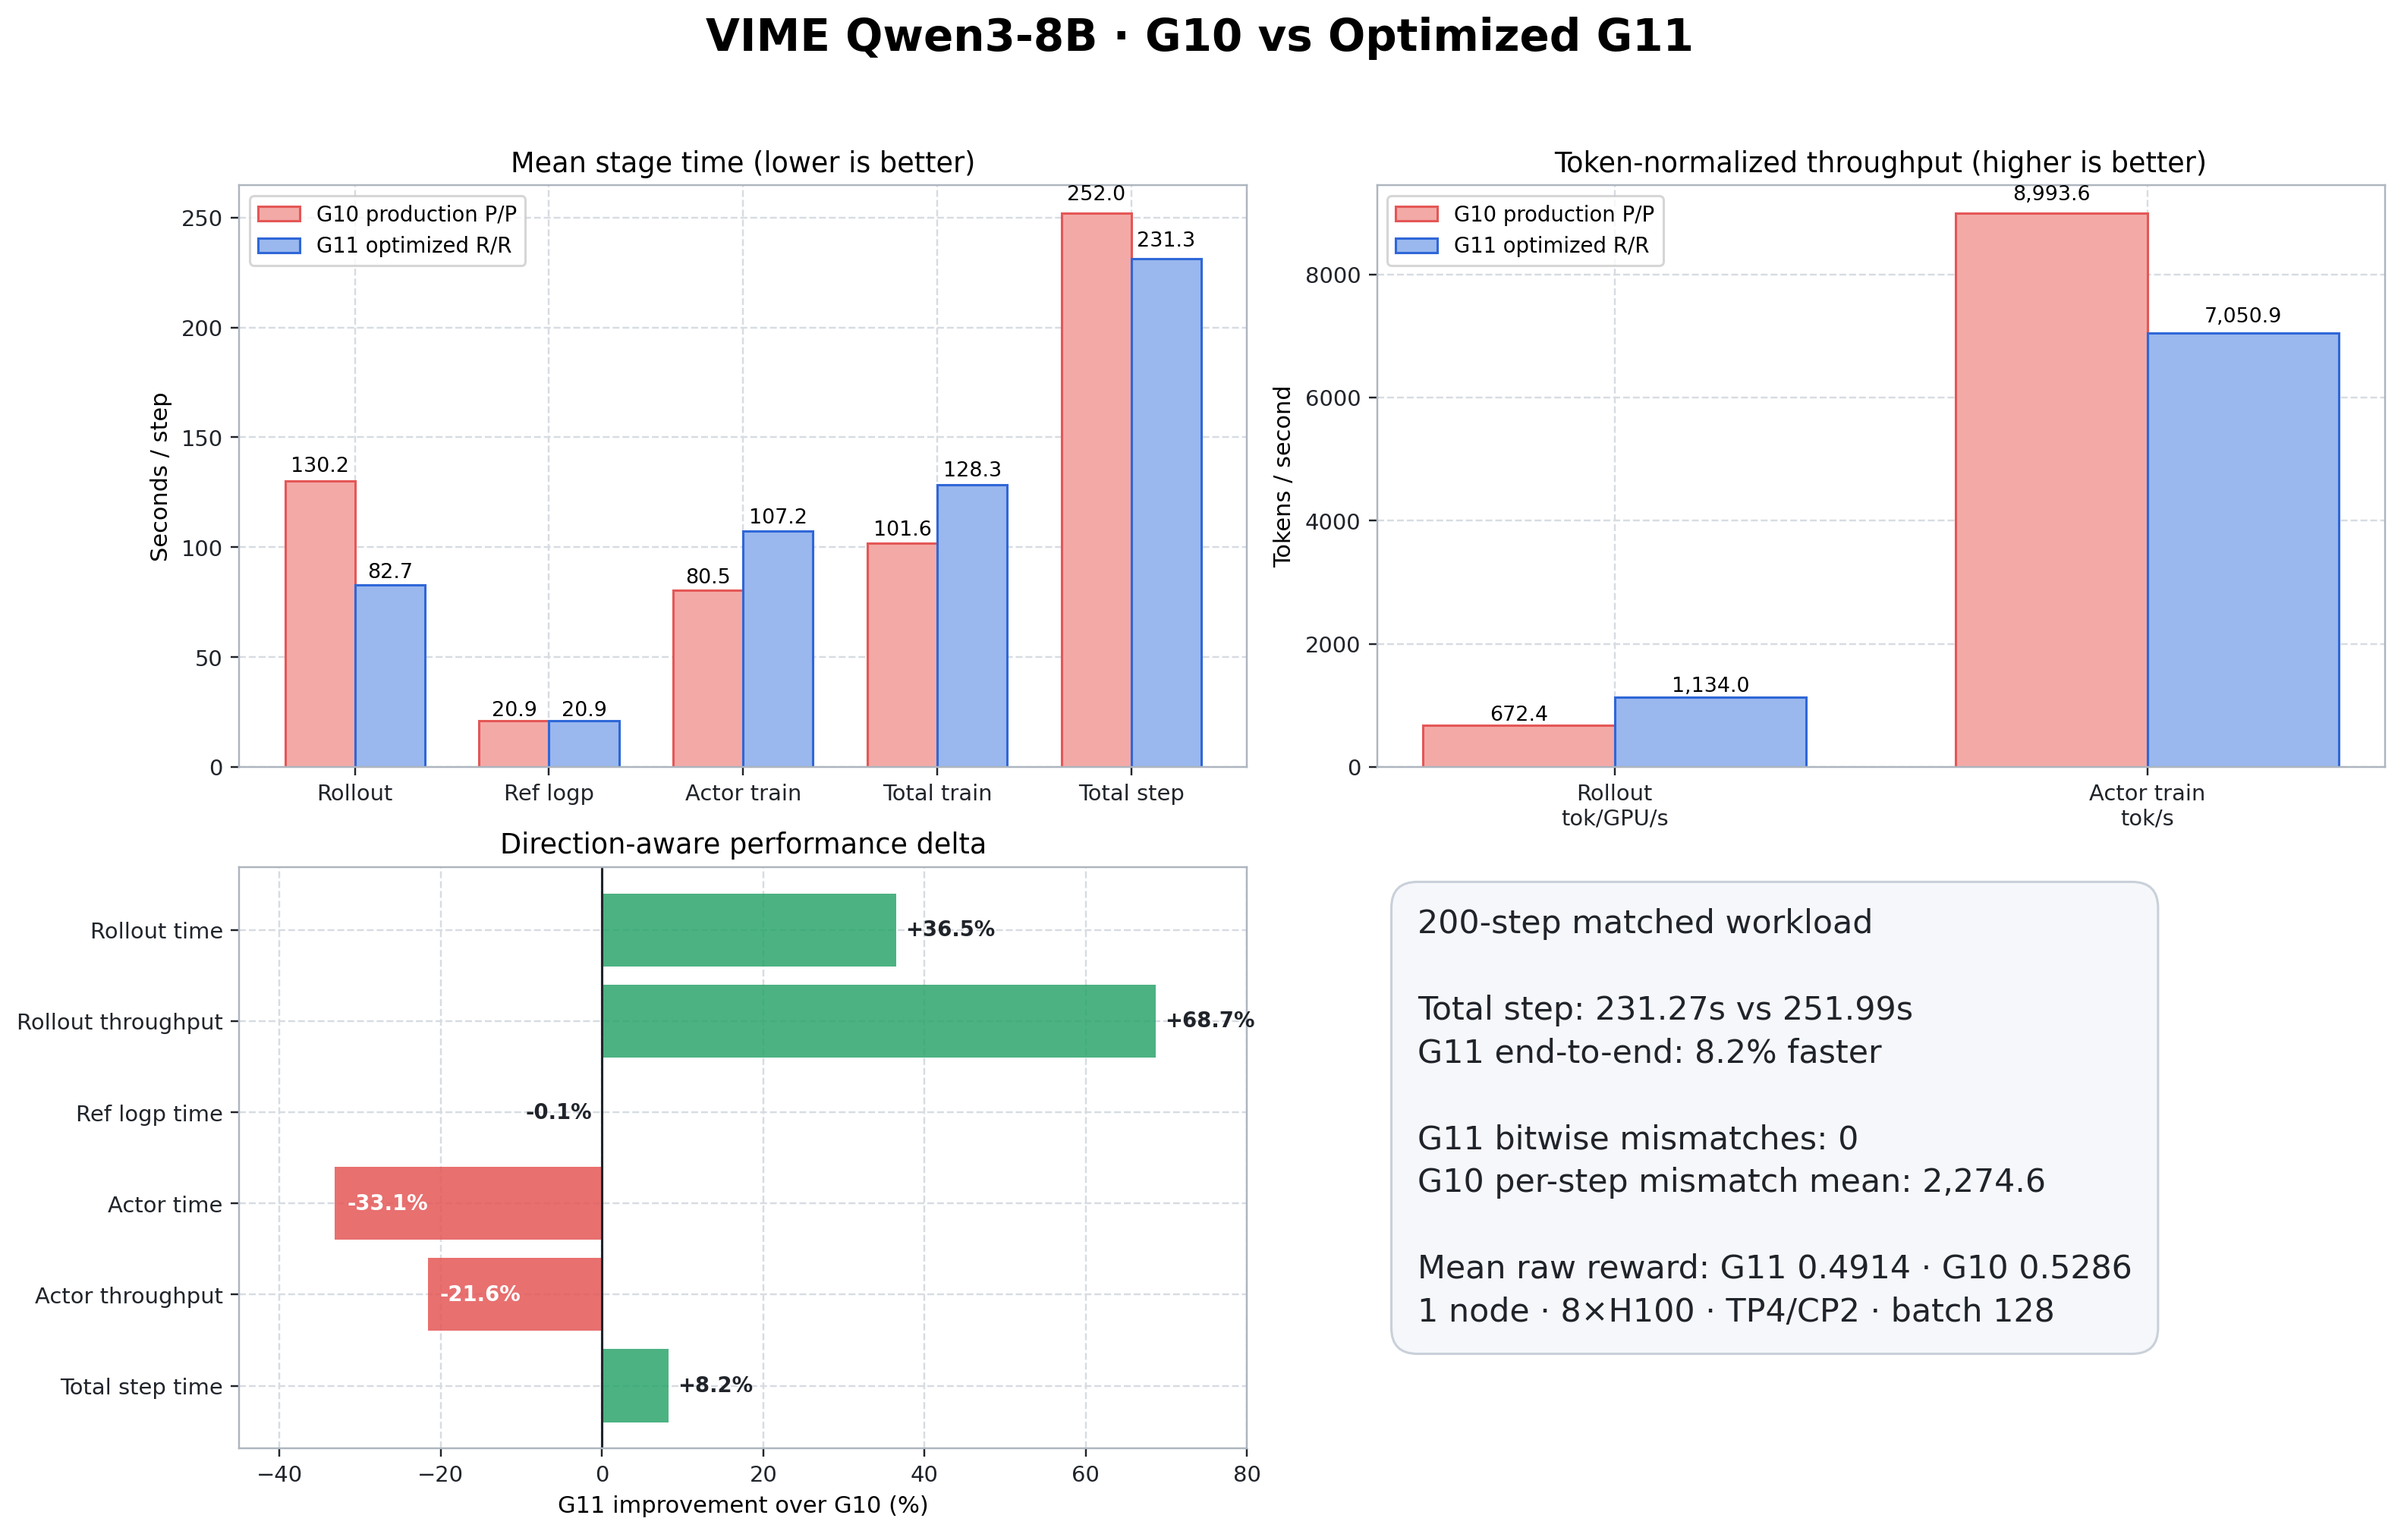
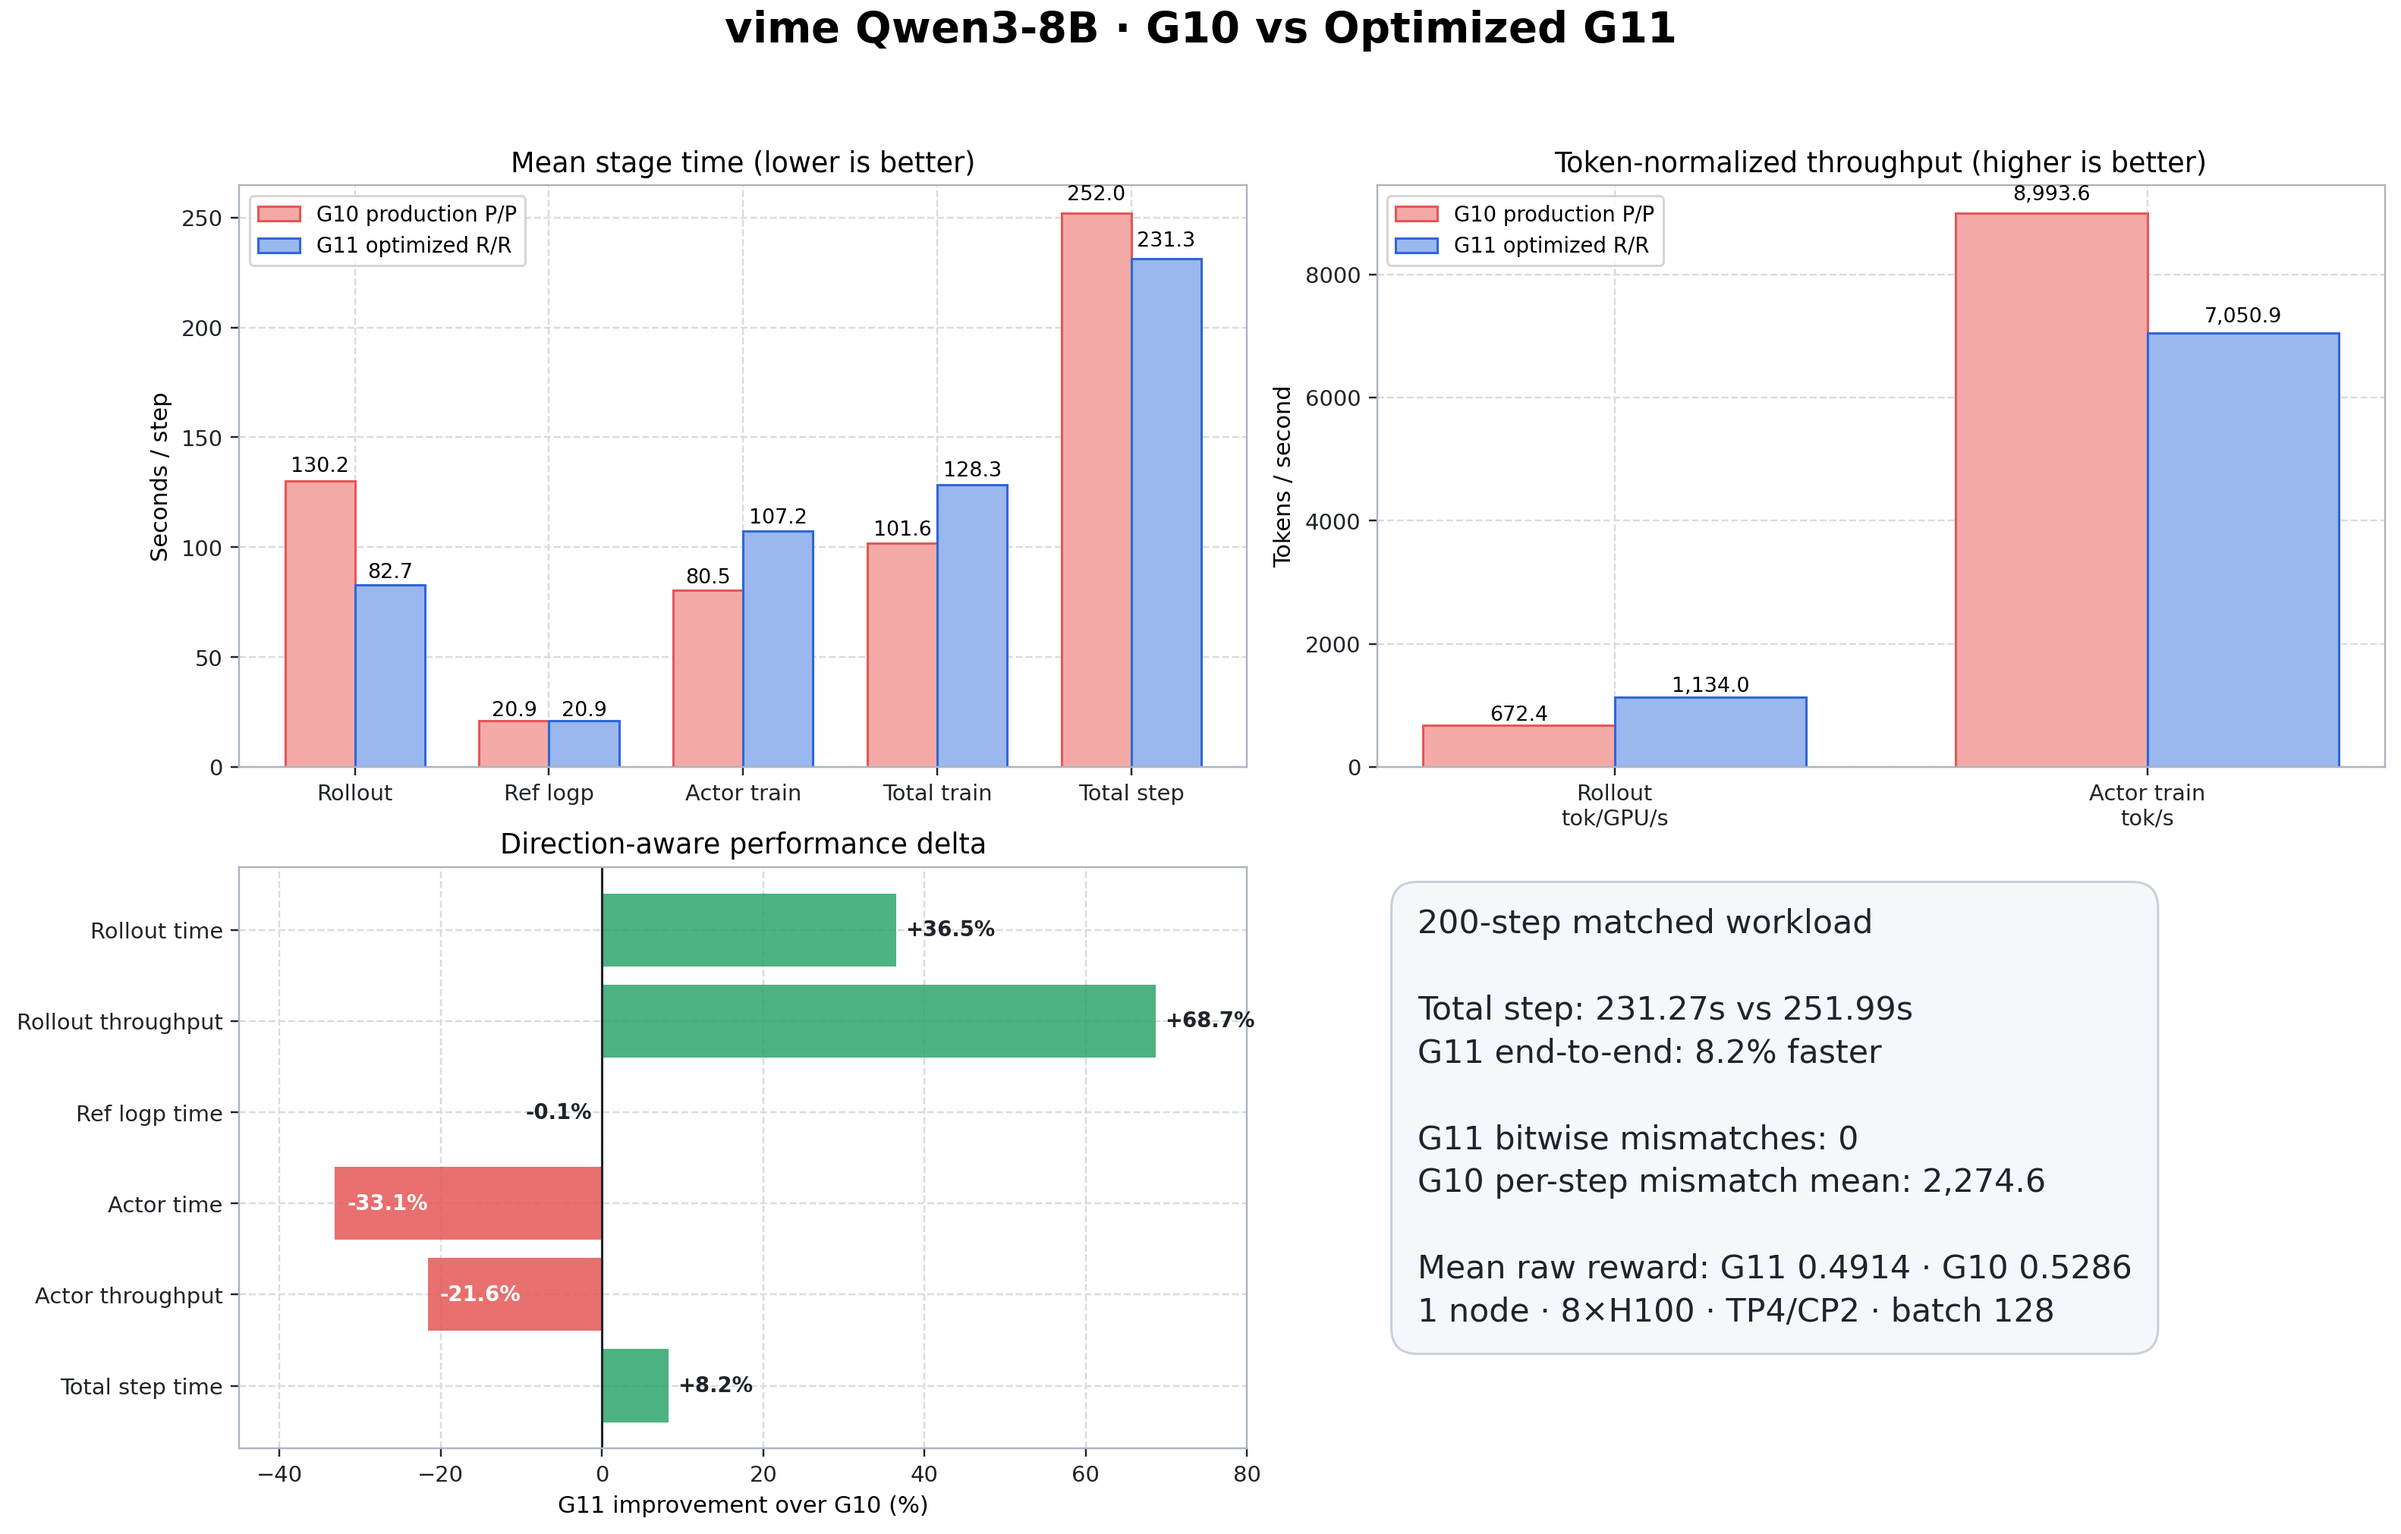
docs(readme): use official vime casing

Changed region(s): [[0.2788, 0.0, 0.7124, 0.0312]]

diff --git a/README.md b/README.md
@@ -34,7 +34,7 @@ deterministic operators for consistent numerical computation across rollout and 
 engines, together with hardware-specific kernels for faster execution and lower memory
 use in GRPO, PPO, and related workloads.
 
-Today, the end-to-end path covers **Qwen3-8B Dense with VIME, vLLM, and Megatron-LM**.
+Today, the end-to-end path covers **Qwen3-8B Dense with vime, vLLM, and Megatron-LM**.
 Work on DeepSeek-V4 Flash MoE, Miles, and AReaL is ongoing.
 
 ## Why RL-Kernel?
@@ -50,7 +50,7 @@ differences enter the policy ratios and KL terms used by RL algorithms.
   and collectives cover the numerical boundaries in RL post-training.
 - **Performance:** fused computation and hardware-specific kernels reduce rollout time,
   memory use, and synchronization costs.
-- **VIME integration:** VIME orchestrates vLLM rollout and Megatron-LM training, with
+- **vime integration:** vime orchestrates vLLM rollout and Megatron-LM training, with
   RL-Kernel supplying the operators used by both engines.
 - **Hardware:** NVIDIA SM90 and AMD gfx942 are supported. Ascend dav_c220 has partial
   operator coverage. Support for other hardware is in progress.
@@ -68,12 +68,12 @@ operators, and hardware backends fit together.
   <img src="docs/assets/RL-Kernel underlying operator library technical architecture.png" alt="RL-Kernel global architecture" width="800">
 </p>
 
-The smaller diagram shows the current VIME integration and the planned Miles and AReaL
+The smaller diagram shows the current vime integration and the planned Miles and AReaL
 integrations.
 
 ```mermaid
 flowchart TB
-    VIME["VIME · integrated"] --> ORCH["RL orchestration integration"]
+    vime["vime · integrated"] --> ORCH["RL orchestration integration"]
     MILES["Miles · roadmap"] -.-> ORCH
     AREAL["AReaL · roadmap"] -.-> ORCH
     ORCH --> VLLM["vLLM · rollout"]
@@ -86,32 +86,32 @@ flowchart TB
     RLK -.-> MUSA["Moore Threads · MUSA · in progress"]
 ```
 
-The benchmark below uses **VIME, vLLM, Megatron-LM, and CUDA**. See
+The benchmark below uses **vime, vLLM, Megatron-LM, and CUDA**. See
 [runtime dispatch](./docs/design/runtime-dispatch.md) for operator selection.
 
 ## Current Scope and Roadmap
 
-The current end-to-end path uses Qwen3-8B Dense with VIME.
+The current end-to-end path uses Qwen3-8B Dense with vime.
 
 | Area | Current | Next |
 | :--- | :--- | :--- |
 | **Model** | Qwen3-8B Dense | [DeepSeek-V4-Flash-0731 MoE](./docs/blog/2026-08-09-dsv4-flash-moe-consistency-roadmap.md) |
-| **Orchestration** | VIME | Miles and AReaL |
+| **Orchestration** | vime | Miles and AReaL |
 | **Engines** | vLLM rollout and Megatron-LM training | More rollout and training engines |
 
 ## Benchmark Highlights
 
-### VIME native vs. RL-Kernel + VIME
+### vime native vs. RL-Kernel + vime
 
-[PR #377](https://github.com/RL-Align/RL-Kernel/pull/377) compares VIME native G10 with
-RL-Kernel G11. Both runs use VIME, vLLM rollout, Megatron-LM training, and rollout LogP
+[PR #377](https://github.com/RL-Align/RL-Kernel/pull/377) compares vime native G10 with
+RL-Kernel G11. Both runs use vime, vLLM rollout, Megatron-LM training, and rollout LogP
 reuse. G11 uses RL-Kernel attention, FFN, and LogP in rollout and training.
 
 **Setup:** Qwen3-8B BF16 · GRPO · 1 node with 8×H100 80GB · actor TP4, CP2, PP1 ·
 two TP4 rollout engines · 8 prompts × 16 samples (batch 128) · 200 steps · seed 1234 ·
 maximum response length 7,168 · KL-loss coefficient 0.001.
 
-| Metric | VIME native (G10) | VIME + RL-Kernel (G11) | G11 result |
+| Metric | vime native (G10) | vime + RL-Kernel (G11) | G11 result |
 | :--- | ---: | ---: | :--- |
 | Steps with nonzero train–rollout LogP mismatch | 200 of 200 | **0 of 200** | **Exact agreement at every step** |
 | Maximum absolute Δlogp across the run | 1.591547 | **0** | **Zero measured difference** |
@@ -124,7 +124,7 @@ maximum response length 7,168 · KL-loss coefficient 0.001.
 G11 saves **47.47 seconds per rollout step**, offsetting the additional actor training
 cost for a net saving of **20.72 seconds per end-to-end step**.
 
-![Qwen3-8B performance comparison: stage times, throughput, and relative changes for VIME native G10 and optimized RL-Kernel G11](./docs/assets/qwen3-8b-performance-summary.png)
+![Qwen3-8B performance comparison: stage times, throughput, and relative changes for vime native G10 and optimized RL-Kernel G11](./docs/assets/qwen3-8b-performance-summary.png)
 
 ## Hardware Support
 
@@ -151,7 +151,7 @@ git clone https://github.com/RL-Align/RL-Kernel.git
 cd RL-Kernel
 ```
 
-For the Qwen3-8B train–rollout command and setup for VIME with RL-Kernel, see the
+For the Qwen3-8B train–rollout command and setup for vime with RL-Kernel, see the
 [8×H100 integration runbook](https://github.com/RL-Align/RL-Kernel/issues/342).
 
 ### NVIDIA CUDA
@@ -210,7 +210,7 @@ are welcome. See the [contributing guide](./docs/contributing/README.md).
 ## Acknowledgments
 
 RL-Kernel builds on the work of the open-source AI infrastructure community, including
-[VIME](https://github.com/vllm-project/vime), [vLLM](https://github.com/vllm-project/vllm),
+[vime](https://github.com/vllm-project/vime), [vLLM](https://github.com/vllm-project/vllm),
 [Megatron-LM](https://github.com/NVIDIA/Megatron-LM),
 [DeepSpeed](https://github.com/deepspeedai/DeepSpeed), and
 [FlashInfer](https://github.com/flashinfer-ai/flashinfer).
